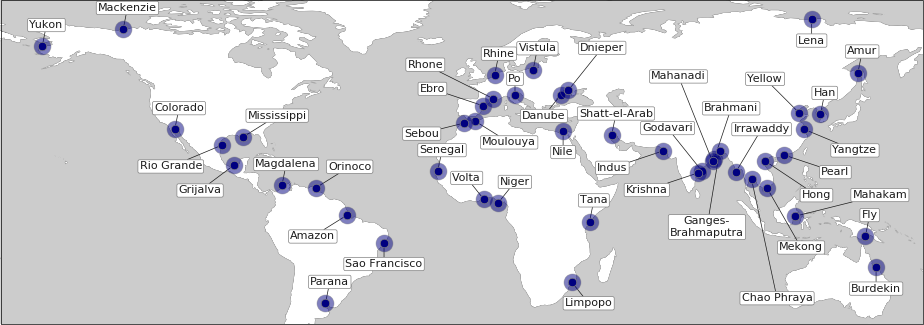
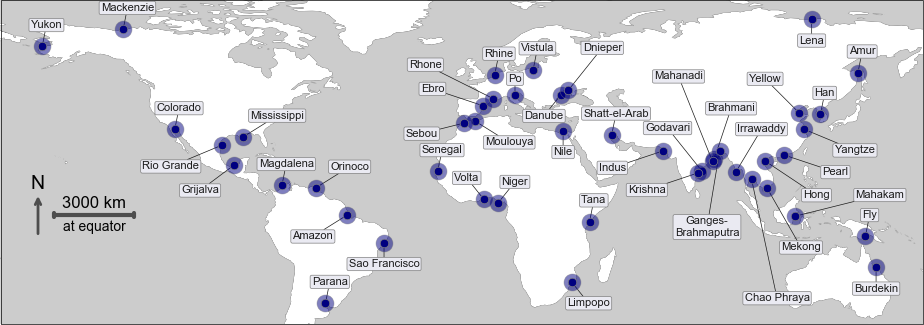
add north and scale to global delta map

diff --git a/analysis/process_analysis.py b/analysis/process_analysis.py
@@ -87,7 +87,7 @@ def plot_global_map(env, source, target):
     mouths = mouths.drop(drop)
 
     dodots = True
-    color = '.1'
+    color = '#000080'
     textcolor='.1'
     fontsize = 8
     circpts = 150
@@ -161,7 +161,7 @@ def plot_global_map(env, source, target):
                              fontsize=fontsize,
                              color=textcolor,
                              bbox=bboxprops,
-                             arrowprops=dict(arrowstyle='-', fc=color, ec=color,
+                             arrowprops=dict(arrowstyle='-', fc=textcolor, ec=textcolor,
                                              shrinkA=0,
                                              shrinkB=0))
                                              #shrinkB=1.1*radius))
@@ -170,6 +170,35 @@ def plot_global_map(env, source, target):
             ax.text(lon, lat, dispname, fontsize=fontsize, ha='center', va='center', color=textcolor,
                    transform=transoffset,
                    bbox=bboxprops)
+
+    # x0, x1, y0, y1 = ax.get_extent(crs)
+    length = 3000 # in kilometers
+    # sbcx = x0 + (x1 - x0) * 0.1
+    # sbcy = y0 + (y1 - y0) * 0.1
+    # bar_xs = [sbcx - length * 500, sbcx + length * 500] # in m
+    # ax.plot(bar_xs, [sbcy, sbcy], transform=crs, color='k', linewidth=3)
+    lon0, lat0 = -160, 0
+    moll = ccrs.Mollweide()
+    pc = ccrs.PlateCarree()
+    x0, y0 = moll.transform_point(lon0, lat0, pc)
+    lon1, lat1 = crs.transform_point(x0 + length*1000, y0, moll)
+    lon2, lat2 = crs.transform_point(x0, y0+100*1000, moll)
+    lon3, lat3 = crs.transform_point(x0, y0-100*1000, moll)
+    lon4, lat4 = crs.transform_point(x0 + length*1000, y0+100*1000, moll)
+    lon5, lat5 = crs.transform_point(x0 + length*1000, y0-100*1000, moll)
+    Nlon1, Nlat1 = crs.transform_point(x0 - 500*1000, y0 - 1000*1000, moll)
+    Nlon2, Nlat2 = crs.transform_point(x0 - 500*1000, y0 + 1000*1000, moll)
+    ax.plot([lon0, lon1], [lat0, lat1], transform=crs, color='.3', linewidth=3)
+    ax.plot([lon2, lon3], [lat2, lat3], transform=crs, color='.3', linewidth=3)
+    ax.plot([lon4, lon5], [lat4, lat5], transform=crs, color='.3', linewidth=3)
+    ax.text((lon0+lon1)/2., lat0+1.5, str(length) + ' km', color='k', transform=crs,
+		ha='center', va='bottom', fontsize=12)
+    ax.text((lon0+lon1)/2., lat0-2, 'at equator', color='k', transform=crs,
+		ha='center', va='top', fontsize=10)
+
+    ax.annotate('', xy=(Nlon2, Nlat2), xytext=(Nlon1, Nlat1),
+            arrowprops=dict(arrowstyle='->', color='.3', lw=2))
+    ax.text(Nlon2, Nlat2, 'N', fontsize=14, color='k', ha='center', va='bottom')
 
     fig.savefig(str(target[0]))
     plt.close(fig)
